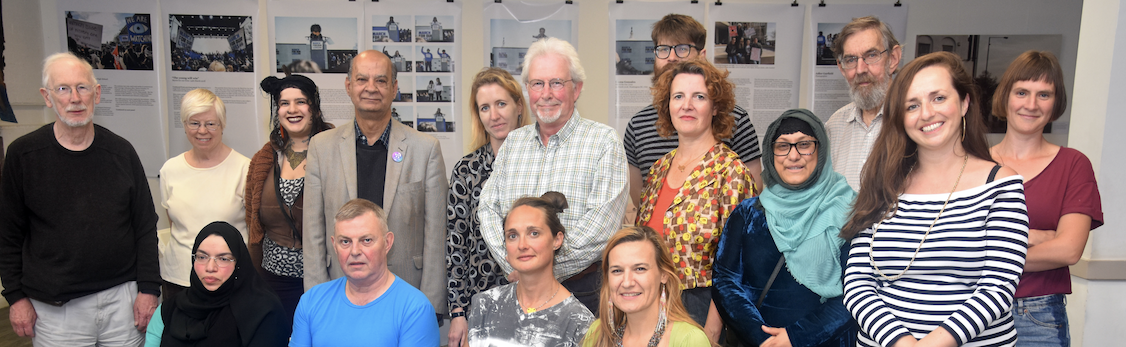
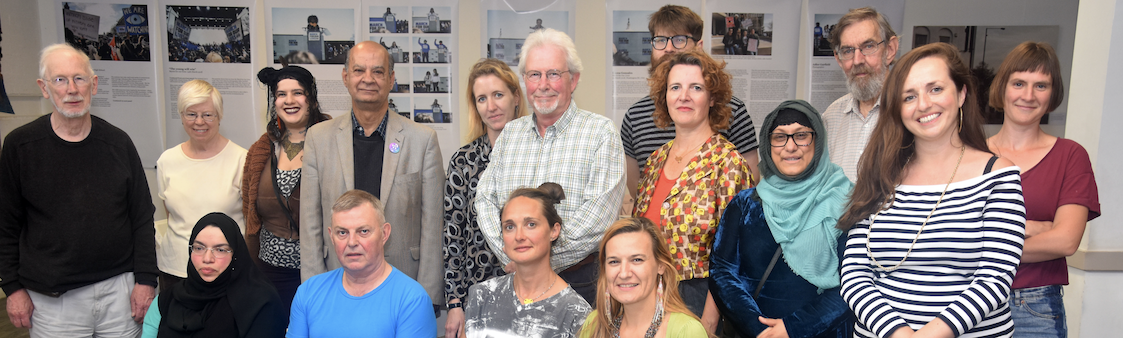
tweak homepage image

diff --git a/index.md b/index.md
@@ -3,7 +3,7 @@ layout: default
 title: Home
 ---
 
-<div class="jumbotron p-3 p-md-5 text-white rounded bg-dark" style="background-image: url(img/AGM-0.png); background-position: center; height: 350px;">
+<div class="jumbotron p-3 p-md-5 text-white rounded bg-dark" style="background-image: url(img/AGM-0.jpg); background-position: center; height: 330px;">
 </div>
 
 Walthamstow Migrants’ Action Group is a small organisation that makes a big difference to the lives of some of Waltham Forest’s most marginalised residents. 
